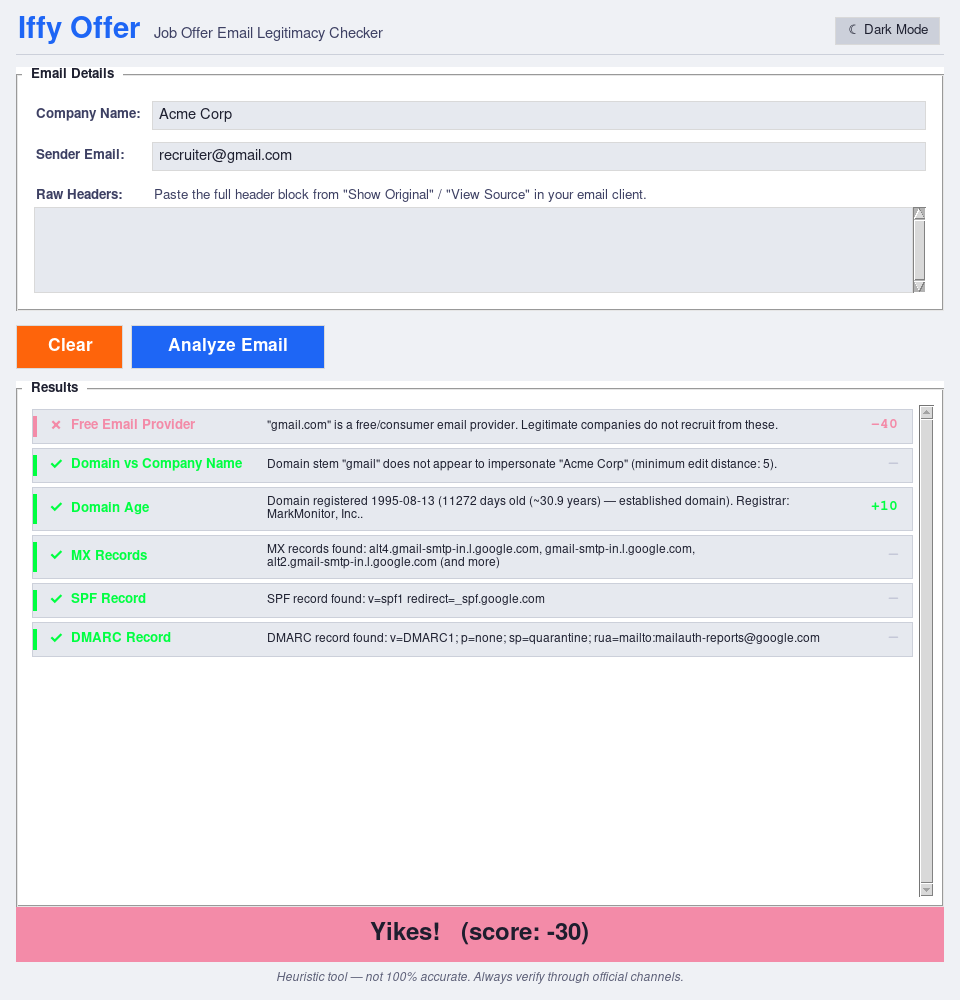
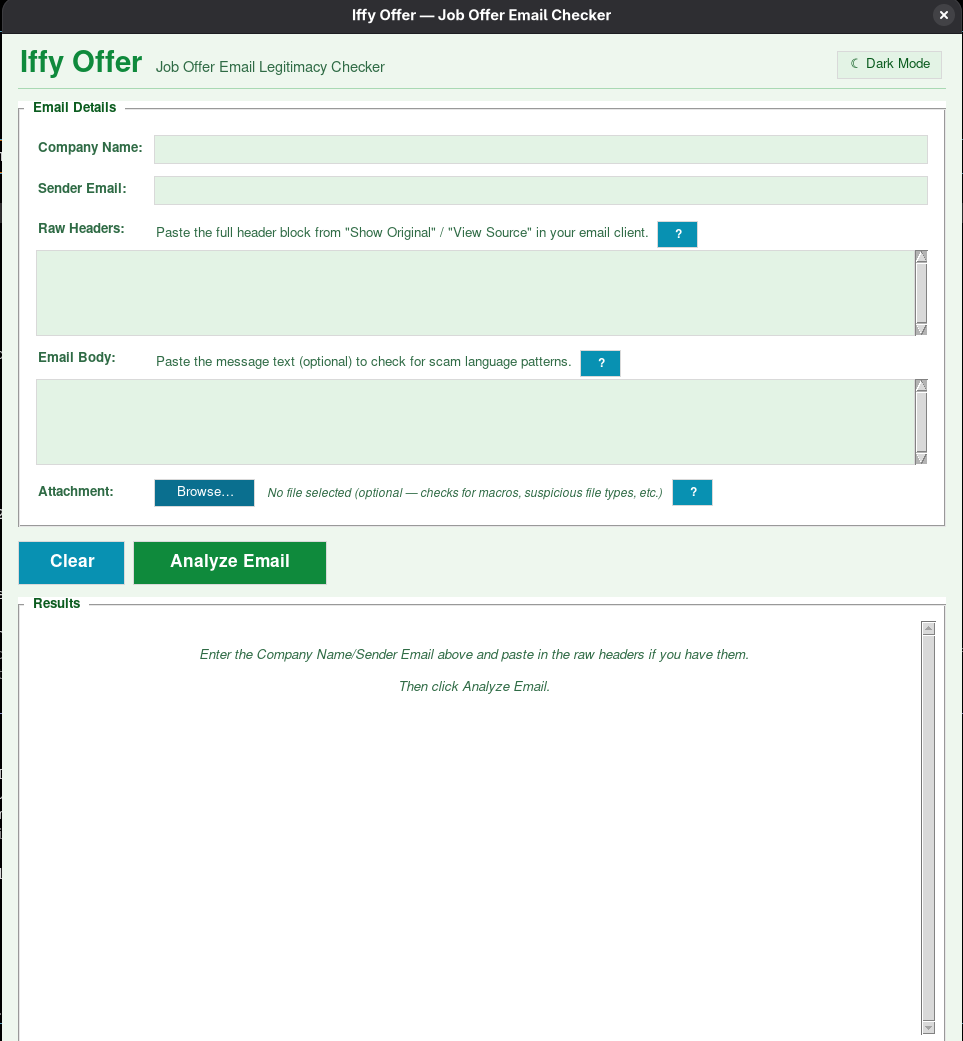
Update README screenshots and remove top-of-file thumbnail
- Replace screenshots/dark.png and screenshots/light.png with new captures
- Remove the portfolio thumbnail image from the top of the README

diff --git a/README.md b/README.md
@@ -6,8 +6,6 @@
 [![Platform](https://img.shields.io/badge/platform-Windows%20%7C%20macOS%20%7C%20Linux-informational.svg)]()
 [![UI: Tkinter](https://img.shields.io/badge/UI-Tkinter-orange.svg)]()
 
-![Portfolio thumbnail](screenshots/portfolio-thumbnail.png)
-
 A desktop tool that analyzes a job-offer email and estimates whether it's from
 a legitimate company or a phishing/scam attempt.
 
